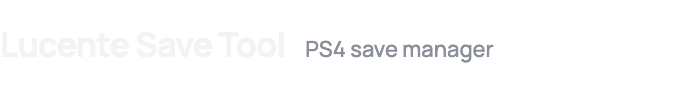
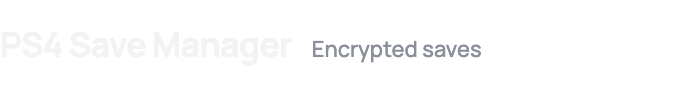
doc: updated readme

Changed region(s): [[0.42, 0.4545, 0.72, 0.7045]]

diff --git a/source/settings.c b/source/settings.c
@@ -98,7 +98,7 @@ void update_callback(int sel)
 
 	LOG("received %ld bytes", strlen(buffer));
 
-	static const char find[] = "\"name\":\"Lucente Save Tool v";
+	static const char find[] = "\"name\":\"PS4 Save Manager v";
 	const char* start = strstr(buffer, find);
 	if (!start)
 	{
@@ -141,7 +141,7 @@ void update_callback(int sel)
 
 	if (show_dialog(DIALOG_TYPE_YESNO, _("New version available! Download update?")))
 	{
-		char* pkg_path = (dir_exists("/data/pkg") == SUCCESS) ? "/data/pkg/lucente-ps4.pkg" : "/data/lucente-ps4.pkg";
+		char* pkg_path = (dir_exists("/data/pkg") == SUCCESS) ? "/data/pkg/ps4-save-manager.pkg" : "/data/ps4-save-manager.pkg";
 		if (http_download(start, NULL, pkg_path, 1))
 			show_message(_("Update downloaded to %s"), pkg_path);
 		else
@@ -208,7 +208,7 @@ int save_app_settings(app_config_t* config)
 	mount.blocks = ORBIS_SAVE_DATA_BLOCKS_MIN2;
 	mount.mountMode = (ORBIS_SAVE_DATA_MOUNT_MODE_CREATE2 | ORBIS_SAVE_DATA_MOUNT_MODE_RDWR | ORBIS_SAVE_DATA_MOUNT_MODE_COPY_ICON);
 
-	LOG("Lucente Save Tool %s v%s - Patch Engine v%s", APOLLO_PLATFORM, APOLLO_VERSION, APOLLO_LIB_VERSION);
+	LOG("PS4 Save Manager %s v%s - Patch Engine v%s", APOLLO_PLATFORM, APOLLO_VERSION, APOLLO_LIB_VERSION);
 	if (sceSaveDataMount2(&mount, &mountResult) < 0) {
 		LOG("sceSaveDataMount2 ERROR");
 		return 0;
@@ -218,7 +218,7 @@ int save_app_settings(app_config_t* config)
 	snprintf(filePath, sizeof(filePath), APOLLO_SETTING_PATH "settings.bin", mountResult.mountPathName);
 	write_buffer(filePath, (uint8_t*) config, sizeof(app_config_t));
 
-	updateSaveParams(mountResult.mountPathName, "Lucente Save Tool", _("User Settings"), "github.com/leo-recchiette/lucente-save-tool-ps4", 0);
+	updateSaveParams(mountResult.mountPathName, "PS4 Save Manager", _("User Settings"), "github.com/leo-recchiette/lucente-save-tool-ps4", 0);
 	if (sceSaveDataUmount((void*)&mountResult.mountPathName) < 0)
 	{
 		LOG("UMOUNT ERROR");

diff --git a/source/main.c b/source/main.c
@@ -1,5 +1,5 @@
 /* 
-	Lucente Save Tool - main.c
+	PS4 Save Manager - main.c
 */
 
 #include <stdio.h>

diff --git a/README.md b/README.md
@@ -1,124 +1,88 @@
-# Lucente Save Tool (PS4)
+# PS4 Save Manager
 
-**Lucente Save Tool** is a PlayStation 4 homebrew app for encrypted save games on a USB drive: it resigns whole save packs for your account, copies them to the console, and applies cheats to them.
+PlayStation 4 homebrew app for encrypted save games on a USB drive. It resigns whole save packs for your account, copies them to the console, and applies cheats to them. Based on [Apollo Save Tool](https://github.com/bucanero/apollo-ps4).
 
-It installs with its own Title ID (`LUCE00001`) and data folder (`/data/lucente/`), so it can sit next to other save tools.
+![Main menu](docs/screenshots/main-menu.png)
 
-# Features
+*Renders of the menu design, not photos from a console.*
 
-* **Bulk resign of a save folder:** reads every sub-folder of `PS4/IMPORT/` on the USB drive, resigns each encrypted save for the current account, and copies it to `PS4/SAVEDATA/<account-id>/` keeping the original folder structure.
-* **Copy all USB saves to the HDD:** every encrypted save in `PS4/SAVEDATA/<account-id>/<TITLE_ID>/` is copied to the console and resigned for the current user.
-* **Cheats on USB saves:** select an encrypted save in **USB Saves**, pick the cheats from its save patch, and apply them; the save is also resigned for the current user.
-* **Offline account activation:** give an Account ID to a PS4 user that never signed in to PSN.
-* **Localization support:** Chinese, English, French, German, Greek, Hungarian, Italian, Japanese, Korean, Portuguese, Russian, Spanish.
+## Features
 
-Copies work on encrypted saves only, and always on all the saves found: to copy a single save, leave only that one in the source folder.
+| Tile | What it does |
+|------|--------------|
+| **USB Saves** | Lists the encrypted saves on the USB drive. Select one to pick cheats and apply them; the save is resigned for you. |
+| **Bulk Resign** | Resigns every save in `PS4/IMPORT/` and writes it to `PS4/SAVEDATA/<account-id>/`, keeping the sub-folders. |
+| **Copy to HDD** | Copies every save in `PS4/SAVEDATA/<account-id>/<TITLE_ID>/` to the console, resigned for the current user. |
+| **Tools** | Gives an Account ID to a PS4 user that never signed in to PSN. |
 
-# Bulk resign
+**Settings** and **About** are the two buttons at the top right (press <kbd>UP</kbd>).
 
-An encrypted PS4 save is a pair of files: the save image and its `.bin` key file (96 bytes), inside a folder named after the game's Title ID.
+Copies always work on every save found. To copy one save, leave only that one in the source folder.
 
-1. Copy your save pack to `PS4/IMPORT/<GAME NAME>/` on the USB drive. Any folder depth works; archives must be extracted first.
-2. Select **Bulk Resign** on the main screen.
-3. Confirm. The resigned copies are written to `PS4/SAVEDATA/<account-id>/`, with the same sub-folders:
+## Install
+
+Download the `.pkg` from the [latest release][app_latest], or from a build in the [Actions](../../actions) tab, and install it on a jailbroken PS4. It uses its own Title ID (`LUCE00001`) and data folder (`/data/lucente/`), so it can sit next to other save tools.
+
+## Bulk resign
+
+An encrypted PS4 save is two files: the save image and its 96-byte `.bin` key, inside a folder named after the game's Title ID.
+
+![Bulk Resign tile](docs/screenshots/bulk-resign.png)
+
+1. Extract your save pack to `PS4/IMPORT/<GAME NAME>/` on the USB drive. Any folder depth works.
+2. Select **Bulk Resign** and confirm.
+3. The resigned copies appear in `PS4/SAVEDATA/<account-id>/`, with the same sub-folders:
 
 ```
-PS4/IMPORT/<GAME NAME>/#3. Hats Off!/CUSA09171/SAVESERVICE-LINE-0-3Slot
-PS4/IMPORT/<GAME NAME>/#3. Hats Off!/CUSA09171/SAVESERVICE-LINE-0-3Slot.bin
+PS4/IMPORT/<GAME NAME>/#3. Hats Off!/CUSA09171/SAVESERVICE-LINE-0-3Slot(.bin)
         ↓
-PS4/SAVEDATA/<account-id>/<GAME NAME>/#3. Hats Off!/CUSA09171/SAVESERVICE-LINE-0-3Slot
-PS4/SAVEDATA/<account-id>/<GAME NAME>/#3. Hats Off!/CUSA09171/SAVESERVICE-LINE-0-3Slot.bin
+PS4/SAVEDATA/<account-id>/<GAME NAME>/#3. Hats Off!/CUSA09171/SAVESERVICE-LINE-0-3Slot(.bin)
 ```
 
-The files in `PS4/IMPORT/` are not modified.
+Files in `PS4/IMPORT/` are not modified. The current user needs an Account ID: use **Tools** if the account is not activated.
 
 > [!IMPORTANT]
-> The PS4 (and the **Copy to HDD** command) only reads saves from `PS4/SAVEDATA/<account-id>/<TITLE_ID>/`. To use a save, move its Title ID folder (e.g. `CUSA09171`) directly under `PS4/SAVEDATA/<account-id>/`.
+> The PS4, and **Copy to HDD**, only read saves from `PS4/SAVEDATA/<account-id>/<TITLE_ID>/`. To use a save, move its Title ID folder (e.g. `CUSA09171`) directly under `PS4/SAVEDATA/<account-id>/`.
 
-The current user needs an Account ID. If the account is not activated, use **Tools** first.
+## Cheats
 
-# Cheats
-
-Cheats come from save patch files (Save Wizard / Bruteforce Save Data format), one per game: `/data/lucente/data/<TITLE_ID>.savepatch`. The pkg bundles the [Apollo patch pack](https://github.com/bucanero/apollo-patches) and unpacks it on the first run of each version; a file with the same name placed in that folder by hand replaces the bundled one.
+Cheats come from one save patch file per game, `/data/lucente/data/<TITLE_ID>.savepatch` (Save Wizard / Bruteforce Save Data format). The pkg bundles the [Apollo patch pack](https://github.com/bucanero/apollo-patches) and unpacks it on the first run of each version. A file with the same name placed there by hand replaces the bundled one.
 
 1. Put the save in `PS4/SAVEDATA/<account-id>/<TITLE_ID>/` on the USB drive.
 2. Open **USB Saves** and select the save.
-3. Select the cheats; the ones the game always needs (decrypt, checksum) are selected automatically.
-4. Select **Apply Changes & Resign**. The save on the USB drive is modified in place: keep a copy of the original.
+3. Select the cheats. The ones the game always needs (decrypt, checksum) are selected for you.
+4. Select **Apply Changes & Resign**. The save on the USB drive is changed in place: keep a copy of the original.
 
-# Setup instructions
+## Controls
 
-Download the `.pkg` from the [latest release][app_latest], or from a build in the **[Actions](../../actions)** tab, and install it on your PlayStation 4.
-On first run, the application will detect and setup the required user settings.
+<kbd>LEFT</kbd>/<kbd>RIGHT</kbd>/<kbd>UP</kbd>/<kbd>DOWN</kbd> move, ![X button](https://github.com/bucanero/pkgi-ps3/raw/master/data/CROSS.png) selects, ![O button](https://github.com/bucanero/pkgi-ps3/raw/master/data/CIRCLE.png) goes back. Commands ask for confirmation before writing anything.
 
-## Data folders
+## Building
 
-| PS4 | Folder |
-|-----|--------|
-| **Save packs to resign** | `/mnt/usbX/PS4/IMPORT/` |
-| **Encrypted saves** | `/mnt/usbX/PS4/SAVEDATA/<account-id>/<TITLE_ID>/` |
-| **External saves (HDD)** | `/data/fakeusb/` can be used in place of a USB drive, with the same folders. |
-
-# Usage
-
- - On the main screen, move <kbd>LEFT</kbd>/<kbd>RIGHT</kbd> and press ![X button](https://github.com/bucanero/pkgi-ps3/raw/master/data/CROSS.png) to pick **USB Saves**, **Bulk Resign**, **Copy to HDD** or **Tools**; press <kbd>UP</kbd> to reach **Settings** and **About**.
-   **Bulk Resign** and **Copy to HDD** start right away, and ask for confirmation before writing anything.
- - In a list, move <kbd>UP</kbd>/<kbd>DOWN</kbd> to select a save or a tool, and press ![X button](https://github.com/bucanero/pkgi-ps3/raw/master/data/CROSS.png) to open the save's cheats or to run the tool.
- - Press ![O button](https://github.com/bucanero/pkgi-ps3/raw/master/data/CIRCLE.png) to go back.
-
-# Credits
-
-Lucente Save Tool is based on [Apollo Save Tool](https://github.com/bucanero/apollo-ps4) by [Bucanero](https://github.com/bucanero).
-
-## Acknowledgments
-
-* [Dnawrkshp](https://github.com/Dnawrkshp/): [Artemis PS3](https://github.com/Dnawrkshp/ArtemisPS3)
-* [hzh](https://github.com/hzhreal)/[Team-Alua](https://github.com/Team-Alua/cecie.nim): [vsh-utils](https://github.com/hzhreal/PS4-vsh-utils)
-* [flatz](https://github.com/flatz): [SFO tools](https://github.com/bucanero/pfd_sfo_tools/)
-* [aldostools](https://aldostools.org/): [Bruteforce Save Data](https://bruteforcesavedata.forumms.net/)
-* [Manrope](https://github.com/sharanda/manrope) font (OFL) and [Material Symbols](https://fonts.google.com/icons) (Apache 2.0)
-
-## Translators
-
-Translations come from the Apollo Save Tool project: [Akela](https://x.com/Akela_1979) (Russian), Algol (French), [Bucanero](https://github.com/bucanero) (Spanish), [TheheroGAC](https://x.com/TheheroGAC) (Italian), [yyoossk](https://x.com/Cloud0835) (Japanese), [Phoenixx1202](https://github.com/Phoenixx1202) (Portuguese), [Gabor Sari](https://github.com/oldman63) (Hungarian), SpyroMancer (Greek), [SoftwareRat](https://github.com/SoftwareRat) (German), [孙中磊 Sun Zhonglei](https://github.com/1987Lr1987) (Chinese)
-
-# Building
-
-You need to have installed:
-
-- [Open Orbis SDK](https://github.com/OpenOrbis/OpenOrbis-PS4-Toolchain/)
-- [Apollo](https://github.com/bucanero/apollo-lib) library (save patch engine)
-- [mbedTLS](https://github.com/Mbed-TLS/mbedtls/releases/tag/v2.16.12) library
-- [cURL](https://github.com/bucanero/oosdk_libraries/tree/master/curl-7.64.1) library
-- [libZip](https://github.com/bucanero/oosdk_libraries/tree/master/libzip-1.9.2) library
-- [SDL2](https://github.com/PacBrew/SDL/tree/ps4) library
-- [libJbc](https://github.com/bucanero/ps4-libjbc) library
-- [libSQLite](https://github.com/bucanero/libSQLite-ps4) library
-- [mini18n](https://github.com/bucanero/mini18n) library
-- [dbglogger](https://github.com/bucanero/dbglogger) library
-
-`.github/workflows/build.yml` builds and installs all of them step by step.
-
-Run `make` to create a release build. Run `make createzip` first to bundle the latest save patches (cheats) in the `.pkg`.
-
-You can also set the `PS3LOAD` environment variable to your PS4 IP address: `export PS3LOAD=tcp:x.x.x.x`.
-This will allow you to use a [ps3load client](https://github.com/bucanero/ps4load/tree/main/client) and send the `eboot.bin` directly to the [PS4Load listener](https://github.com/bucanero/ps4load).
-
-To enable debug logging, build Lucente Save Tool with `make DEBUGLOG=1`. The application will send debug messages to
-UDP multicast address `239.255.0.100:30000`. To receive them you can use [socat][] on your computer:
+Needs the [Open Orbis SDK](https://github.com/OpenOrbis/OpenOrbis-PS4-Toolchain/) and these libraries installed in it: [apollo-lib](https://github.com/bucanero/apollo-lib), [mbedTLS 2.16.12](https://github.com/Mbed-TLS/mbedtls/releases/tag/v2.16.12), [cURL](https://github.com/bucanero/oosdk_libraries/tree/master/curl-7.64.1), [libZip](https://github.com/bucanero/oosdk_libraries/tree/master/libzip-1.9.2), [SDL2](https://github.com/PacBrew/SDL/tree/ps4), [libJbc](https://github.com/bucanero/ps4-libjbc), [libSQLite](https://github.com/bucanero/libSQLite-ps4), [mini18n](https://github.com/bucanero/mini18n), [dbglogger](https://github.com/bucanero/dbglogger). `.github/workflows/build.yml` shows how to build all of them.
 
 ```sh
-$ socat udp4-recv:30000,ip-add-membership=239.255.0.100:0.0.0.0 -
+make createzip   # optional: bundle the latest save patches (cheats)
+make             # build the .pkg
 ```
 
-# License
+With `PS3LOAD=tcp:<ps4-ip>` set, a [ps3load client](https://github.com/bucanero/ps4load/tree/main/client) can send `eboot.bin` to the [PS4Load listener](https://github.com/bucanero/ps4load). `make DEBUGLOG=1` sends debug messages to UDP multicast `239.255.0.100:30000`; receive them with [socat][]:
 
-Lucente Save Tool is based on [Apollo Save Tool](https://github.com/bucanero/apollo-ps4/) (PS4) - Copyright (C) 2020-2026 [Damian Parrino](https://twitter.com/dparrino)
+```sh
+socat udp4-recv:30000,ip-add-membership=239.255.0.100:0.0.0.0 -
+```
 
-This program is free software: you can redistribute it and/or modify
-it under the terms of the [GNU General Public License][app_license] as published by
-the Free Software Foundation, either version 3 of the License, or
-(at your option) any later version.
+## Credits
+
+Based on [Apollo Save Tool](https://github.com/bucanero/apollo-ps4) by [Bucanero](https://github.com/bucanero). Thanks to [Dnawrkshp](https://github.com/Dnawrkshp/) ([Artemis PS3](https://github.com/Dnawrkshp/ArtemisPS3)), [hzh](https://github.com/hzhreal)/[Team-Alua](https://github.com/Team-Alua/cecie.nim) ([vsh-utils](https://github.com/hzhreal/PS4-vsh-utils)), [flatz](https://github.com/flatz) ([SFO tools](https://github.com/bucanero/pfd_sfo_tools/)), [aldostools](https://aldostools.org/) ([Bruteforce Save Data](https://bruteforcesavedata.forumms.net/)), the [Manrope](https://github.com/sharanda/manrope) font (OFL) and [Material Symbols](https://fonts.google.com/icons) (Apache 2.0).
+
+Translations come from the Apollo Save Tool project: [Akela](https://x.com/Akela_1979) (Russian), Algol (French), [Bucanero](https://github.com/bucanero) (Spanish), [TheheroGAC](https://x.com/TheheroGAC) (Italian), [yyoossk](https://x.com/Cloud0835) (Japanese), [Phoenixx1202](https://github.com/Phoenixx1202) (Portuguese), [Gabor Sari](https://github.com/oldman63) (Hungarian), SpyroMancer (Greek), [SoftwareRat](https://github.com/SoftwareRat) (German), [孙中磊 Sun Zhonglei](https://github.com/1987Lr1987) (Chinese).
+
+## License
+
+Copyright (C) 2020-2026 [Damian Parrino](https://twitter.com/dparrino) for the original Apollo Save Tool.
+
+This program is free software: you can redistribute it and/or modify it under the terms of the [GNU General Public License][app_license] as published by the Free Software Foundation, either version 3 of the License, or (at your option) any later version.
 
 [socat]: http://www.dest-unreach.org/socat/
 [app_latest]: https://github.com/leo-recchiette/lucente-save-tool-ps4/releases/latest

diff --git a/CLAUDE.md b/CLAUDE.md
@@ -4,7 +4,7 @@ This file provides guidance to Claude Code (claude.ai/code) when working with co
 
 ## Project
 
-Lucente Save Tool for PS4: a homebrew C app (OpenOrbis SDK + SDL2) for a jailbroken PS4 that works on **encrypted** USB saves: resign every save under `PS4/IMPORT/` into `PS4/SAVEDATA/<account-id>/` (keeping the folder structure), copy all USB saves to the HDD, apply cheats (save patches) to a USB save, and offline account activation. It started as a fork of Apollo Save Tool (bucanero/apollo-ps4) and was cut down to these features.
+PS4 Save Manager for PS4: a homebrew C app (OpenOrbis SDK + SDL2) for a jailbroken PS4 that works on **encrypted** USB saves: resign every save under `PS4/IMPORT/` into `PS4/SAVEDATA/<account-id>/` (keeping the folder structure), copy all USB saves to the HDD, apply cheats (save patches) to a USB save, and offline account activation. It started as a fork of Apollo Save Tool (bucanero/apollo-ps4) and was cut down to these features.
 
 ## Build
 
